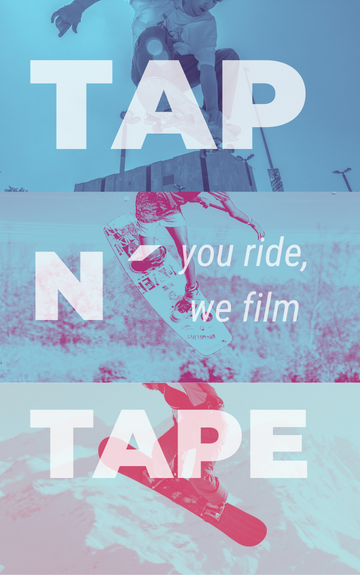
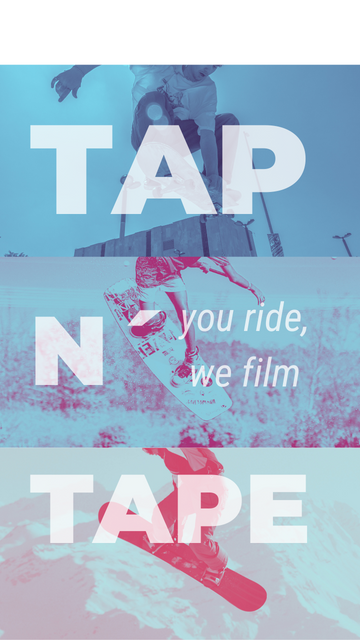
Mobile

diff --git a/style.css b/style.css
@@ -294,16 +294,12 @@ nav li:hover {
 
 
                                     /* Seccion 1 - Presentacion */
-.presentacion{
-    /* height: 100vh;
-
-    display: flex; */
-    min-height: 100vh;
+.seccion1{
+    
+    height: 100vh;
     background-image: url(./img/1.png);
-    background-position: center center;
-    background-repeat: no-repeat;
     background-size: cover;
-
+    background-position: center;
 
 }
 
@@ -317,18 +313,12 @@ nav li:hover {
 
 .seccion2{
     width: 100%;
-    height: 100%;
-    display: flex;
-    justify-content: flex-start;
+    height: 90vh;
+    background-image: url(./img/2.png);
     background-size: cover;
 
 
 }
-
-.img-seccion2{
-    width: 100%;
-}
-
 
 
 
@@ -374,7 +364,7 @@ nav li:hover {
 }
 
 .subscribe{
-    width: 150px;
+    width: 9rem;
     border-radius: 20px;
     cursor: pointer;
     margin-left: 20px;
@@ -406,14 +396,14 @@ nav li:hover {
 
 .sneak-box h1{
     color: white;
-    font-size: 50px;
+    font-size: 1rem;
     cursor: pointer;
 
 }
 
 
 .sneak img{
-    width: 200px;
+    width: 12rem;
     border-radius: 20px;
     cursor: pointer;
     box-shadow: 2px 2px 4px rgba(0, 0, 0, 0.5);
@@ -422,7 +412,7 @@ nav li:hover {
 .pie-sneak{
     display: flex;
     flex-direction:row;
-    justify-content:space-around;
+    justify-content:center;
     align-items: center;
     width: 100%;
     margin-top: 20px;
@@ -431,7 +421,7 @@ nav li:hover {
 }
 .info-sneak{
     color: white;
-    font-size: 12px;
+    font-size: 0.8rem;
     display: flex;
     flex-direction: column;
     align-items: flex-start;
@@ -1234,22 +1224,35 @@ width: 100%;
 
                                         /* MOBILE */
 @media (max-width: 950px) {
-   .header label{
+
+    /* Header */
+
+.reserva{
+    position: fixed;
+}
+
+.reserva a h4{
+    font-size: 0.8rem;
+}
+
+.header label{
        display: initial;
 
    } 
 
-   .header label img{
+.header label img{
        width: 2rem;
    }
 
-   .header{
+.header{
+
         display: flex;
         flex-direction: row-reverse;
         padding: 20px 10%;
+        height: 5%;
    }
 
-   .header .navigation{
+.header .navigation{
        text-align: center;
        position: absolute;
        top: 100%;
@@ -1259,36 +1262,32 @@ width: 100%;
        display: none;
    }
 
-   .header .navigation ul li{
+.header .navigation ul li{
        width: 100%;
    }
 
-   .header .navigation ul li a{
+.header .navigation ul li a{
        padding: 8px 30px 8px 10%;
 
    }
-
-   .header .navigation ul li ul{
+.header .navigation ul li ul{
        position: relative;
        width: 100%;
        left: 0;
    }
-
-   .header .navigation ul li ul li{
+.header .navigation ul li ul li{
        background-color: rgba(1, 1, 1, 0.7);
    }
-
-   .header .navigation ul li ul li ul{
+.header .navigation ul li ul li ul{
        position: relative;
        width: 100%;
        left: 0;
    }
-
-   #toggle:checked ~ .navigation{
+#toggle:checked ~ .navigation{
        display: block;
    }
 
-   .menuh1{
+.menuh1{
     display: block;
     font-weight: 200;
 }
@@ -1326,7 +1325,106 @@ width: 100%;
     width: 2rem;
 }
 
-   
+/* Seccion 1 - Home */
+
+.seccion1 {
+    width: 100%;
+    height: 110vh; /* Ajusta la altura de la sección según tus necesidades */
+    background-image: url(./img/home-mobile-1.png);
+    background-position: center;
+    background-repeat: no-repeat;
+    background-size: cover;
+  }
+
+
+/* Seccion 2 - Nosotros */
+.seccion2{
+    background-image: url(./img/home-mobile-2.png);
+    height: 80vh;
+    background-size: cover;
+    background-position: center;
+    background-repeat: no-repeat;
+}
+
+/* Seccion 3 - Portfolio */
+
+.seccion3{
+
+    background-image: url(./img/home-mobile-3.png);
+    display: flex;
+
+}
+.sneak{
+    max-width: 50%;
+    max-height: 50%;
+
+}
+.sneak a img{
+    width: 5rem;
+
+}
+.sneakPeek{
+    width: 100%;
+    height: 100%;
+    display: flex;
+    justify-content: center;
+    align-items: center;
+    flex-direction: row;
+}
+.sneak-box{
+    display: flex;
+    flex-direction: row;
+    justify-content: space-between;
+    flex-wrap: wrap;
+}
+
+.titulo-sneak{
+    display: none;
+}
+
+.info-sneak{
+    font-size: 0.5rem;
+}
+
+.play a img{
+    width: 1rem;
+}
+
+/* Seccion 4 - Servicios */
+
+.seccion4{
+    background-image: url(./img/home-mobile-4.png);
+    height: 90vh;
+    background-size: cover;
+    background-position: center;
+    background-repeat: no-repeat;
+}
+
+
+.img-servicios{
+    display: none;
+}
+
+.titulo-servicio{
+    display: none;
+}
+
+
+/* Seccion 5 - Coleccion TNT */
+
+.seccion5{
+    background-image: url(./img/home-mobile-5.png);
+    height: 90vh;
+    background-size: cover;
+    background-position: center;
+    background-repeat: no-repeat;
+}
+
+/* Footer Home */
+
+.footer{
+    display: none;
+}
 
 
 }

diff --git a/main.js b/main.js
@@ -1,23 +1,25 @@
 // Aca estamos configurado la barra que se pliega al scrolear
 
 window.addEventListener('scroll', function() {
-    var navbar = document.getElementById('header');
-    var logo = document.getElementById('logo');
-    var liNavbar = document.getElementById('liNavbar')
-    var scrollPosition = window.scrollY;
-  
+  var navbar = document.getElementById('header');
+  var logo = document.getElementById('logo');
+  var liNavbar = document.getElementById('liNavbar');
+  var scrollPosition = window.scrollY;
+  var windowWidth = window.innerWidth;
+
+  if (windowWidth > 768) { // Verificar que el ancho de la ventana sea mayor a 768px (dispositivo no móvil)
     if (scrollPosition > 0) {
       navbar.style.height = '10%';
-      logo.style.width ='1.5rem'
-      nav.style.fontSize = '1rem'
-      
+      logo.style.width = '1.5rem';
+      liNavbar.style.fontSize = '1rem';
     } else {
       navbar.style.height = '20%';
-      logo.style.width ='4rem'
-      nav.style.fontSize = '1.2rem'
-
+      logo.style.width = '4rem';
+      liNavbar.style.fontSize = '1.2rem';
     }
-  });
+  }
+});
+
 
 
 // Aca configurando los botones del carrusel

diff --git a/prueba.html b/prueba.html
@@ -14,6 +14,7 @@
     <a target="_blank" href="http://wa.me/+393513786219"><h4>Reservá tu producción de video con 10% OFF</h4></a>
 </div>
 
+<!-- Navbar -->
 <header class="header" id="header" >
     <div class="logo" >
         <a href="./prueba.html"><img id="logo"src="/TapNTape/img/logo.png" alt="Logo TNT"></a> 
@@ -80,20 +81,14 @@
         </ul>
     </nav>
 </header>
-
-
-    
-<!-- Navbar y Portada -->
+ 
+<!-- Portada -->
 <section class="seccion1" id="seccion1">
-<div class="presentacion">
-
-            <!-- <img src="./img/1.png" alt="" class="img-presentacion"> -->
-            
-</div>    
+  
 </section>
 <!-- Nosotros -->
     <section class="seccion2">
-        <img src="./img/2.png" alt="" class="img-seccion2">
+        <!-- <img src="./img/2.png" alt="" class="img-seccion2"> -->
     </section>
 <!-- Portfolio -->
     <section class="seccion3">
